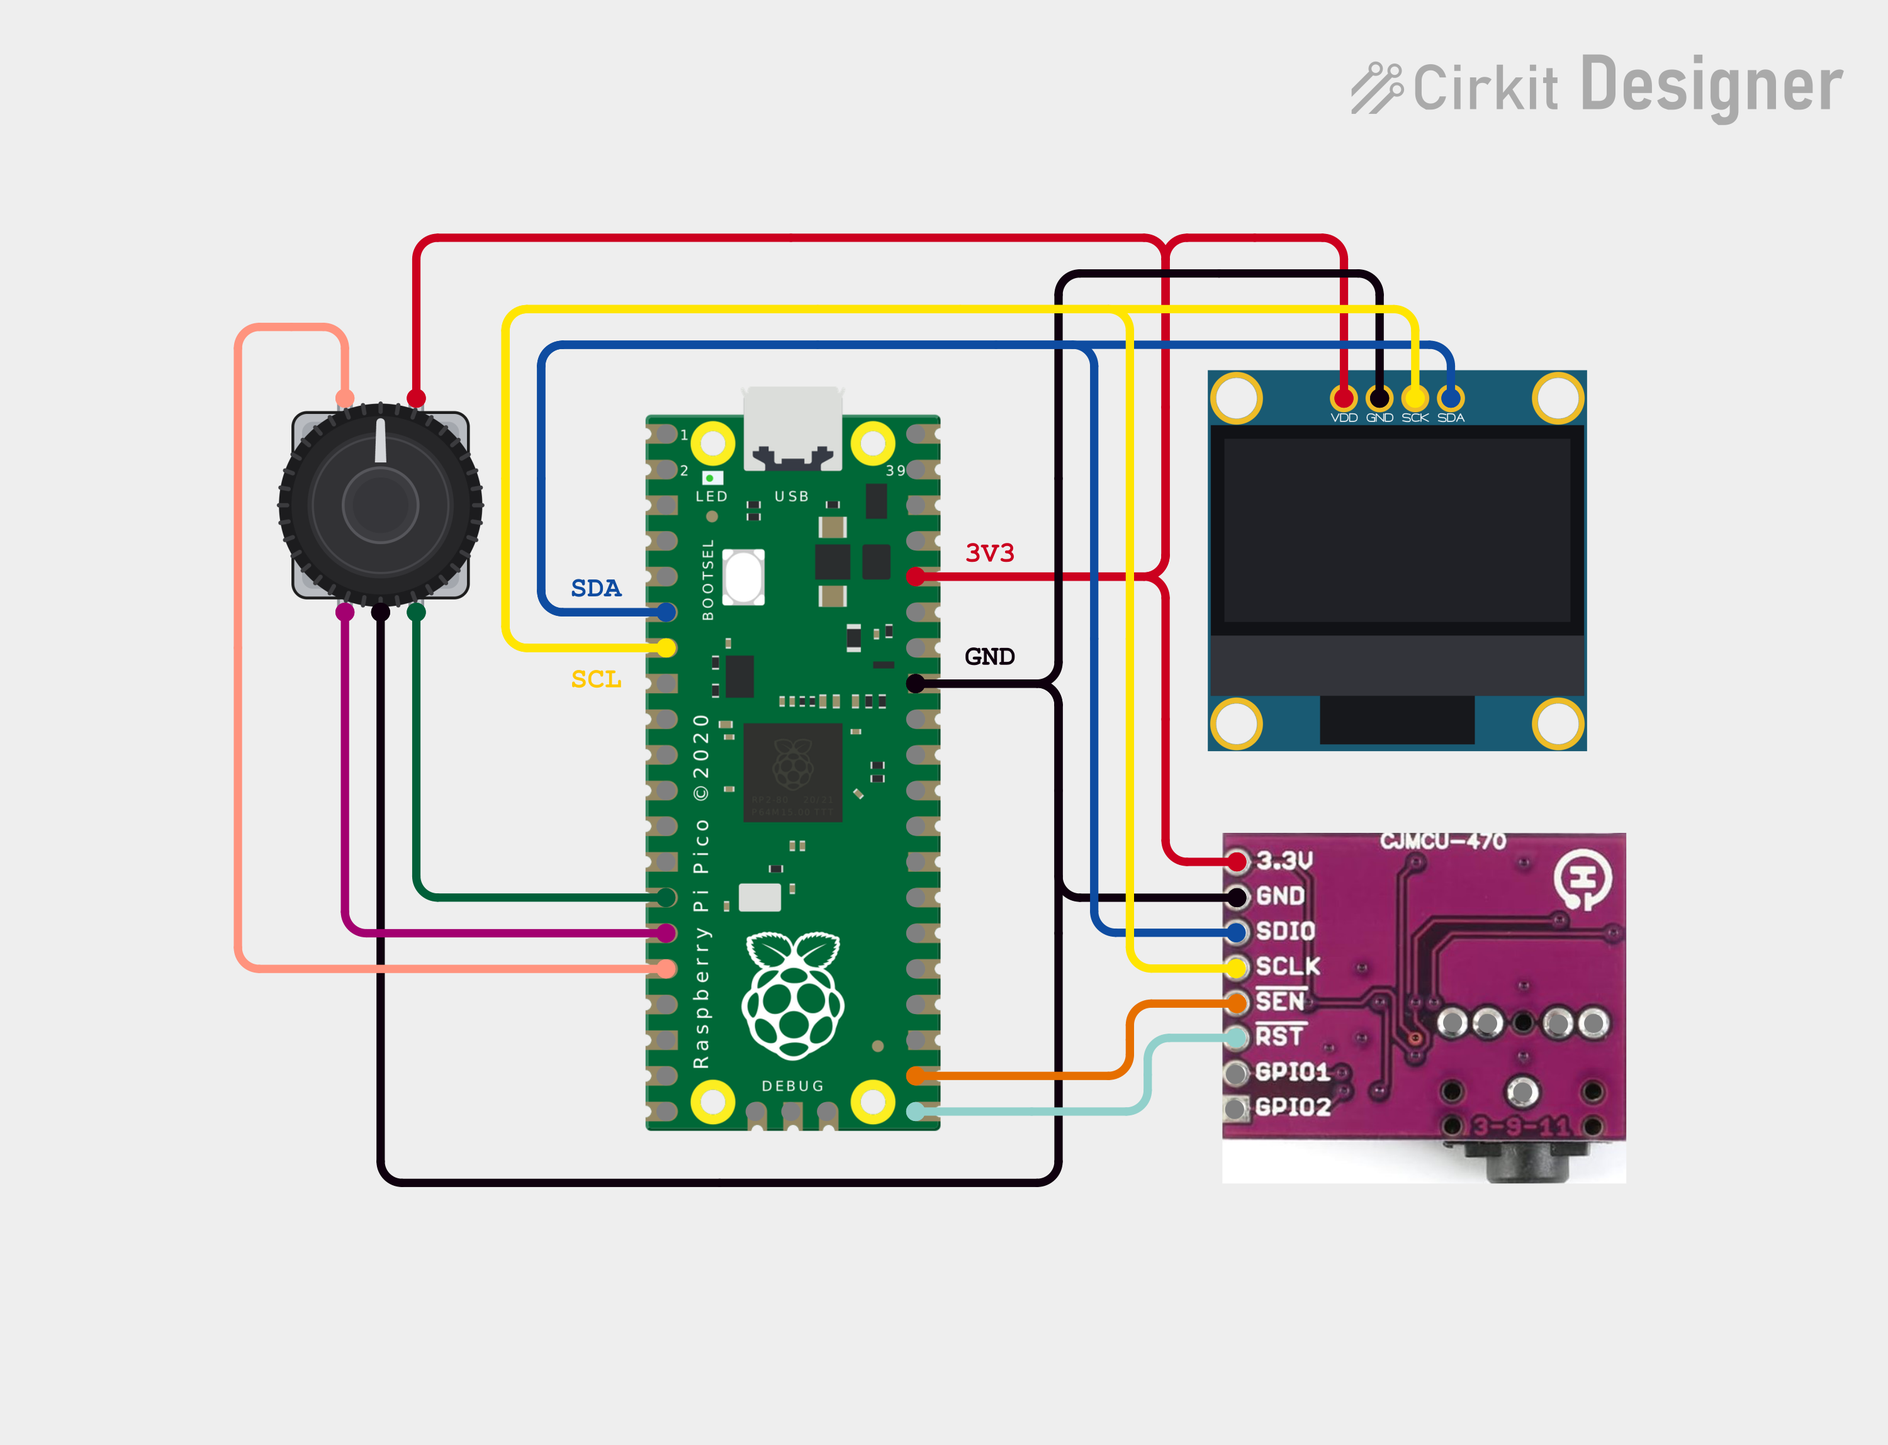
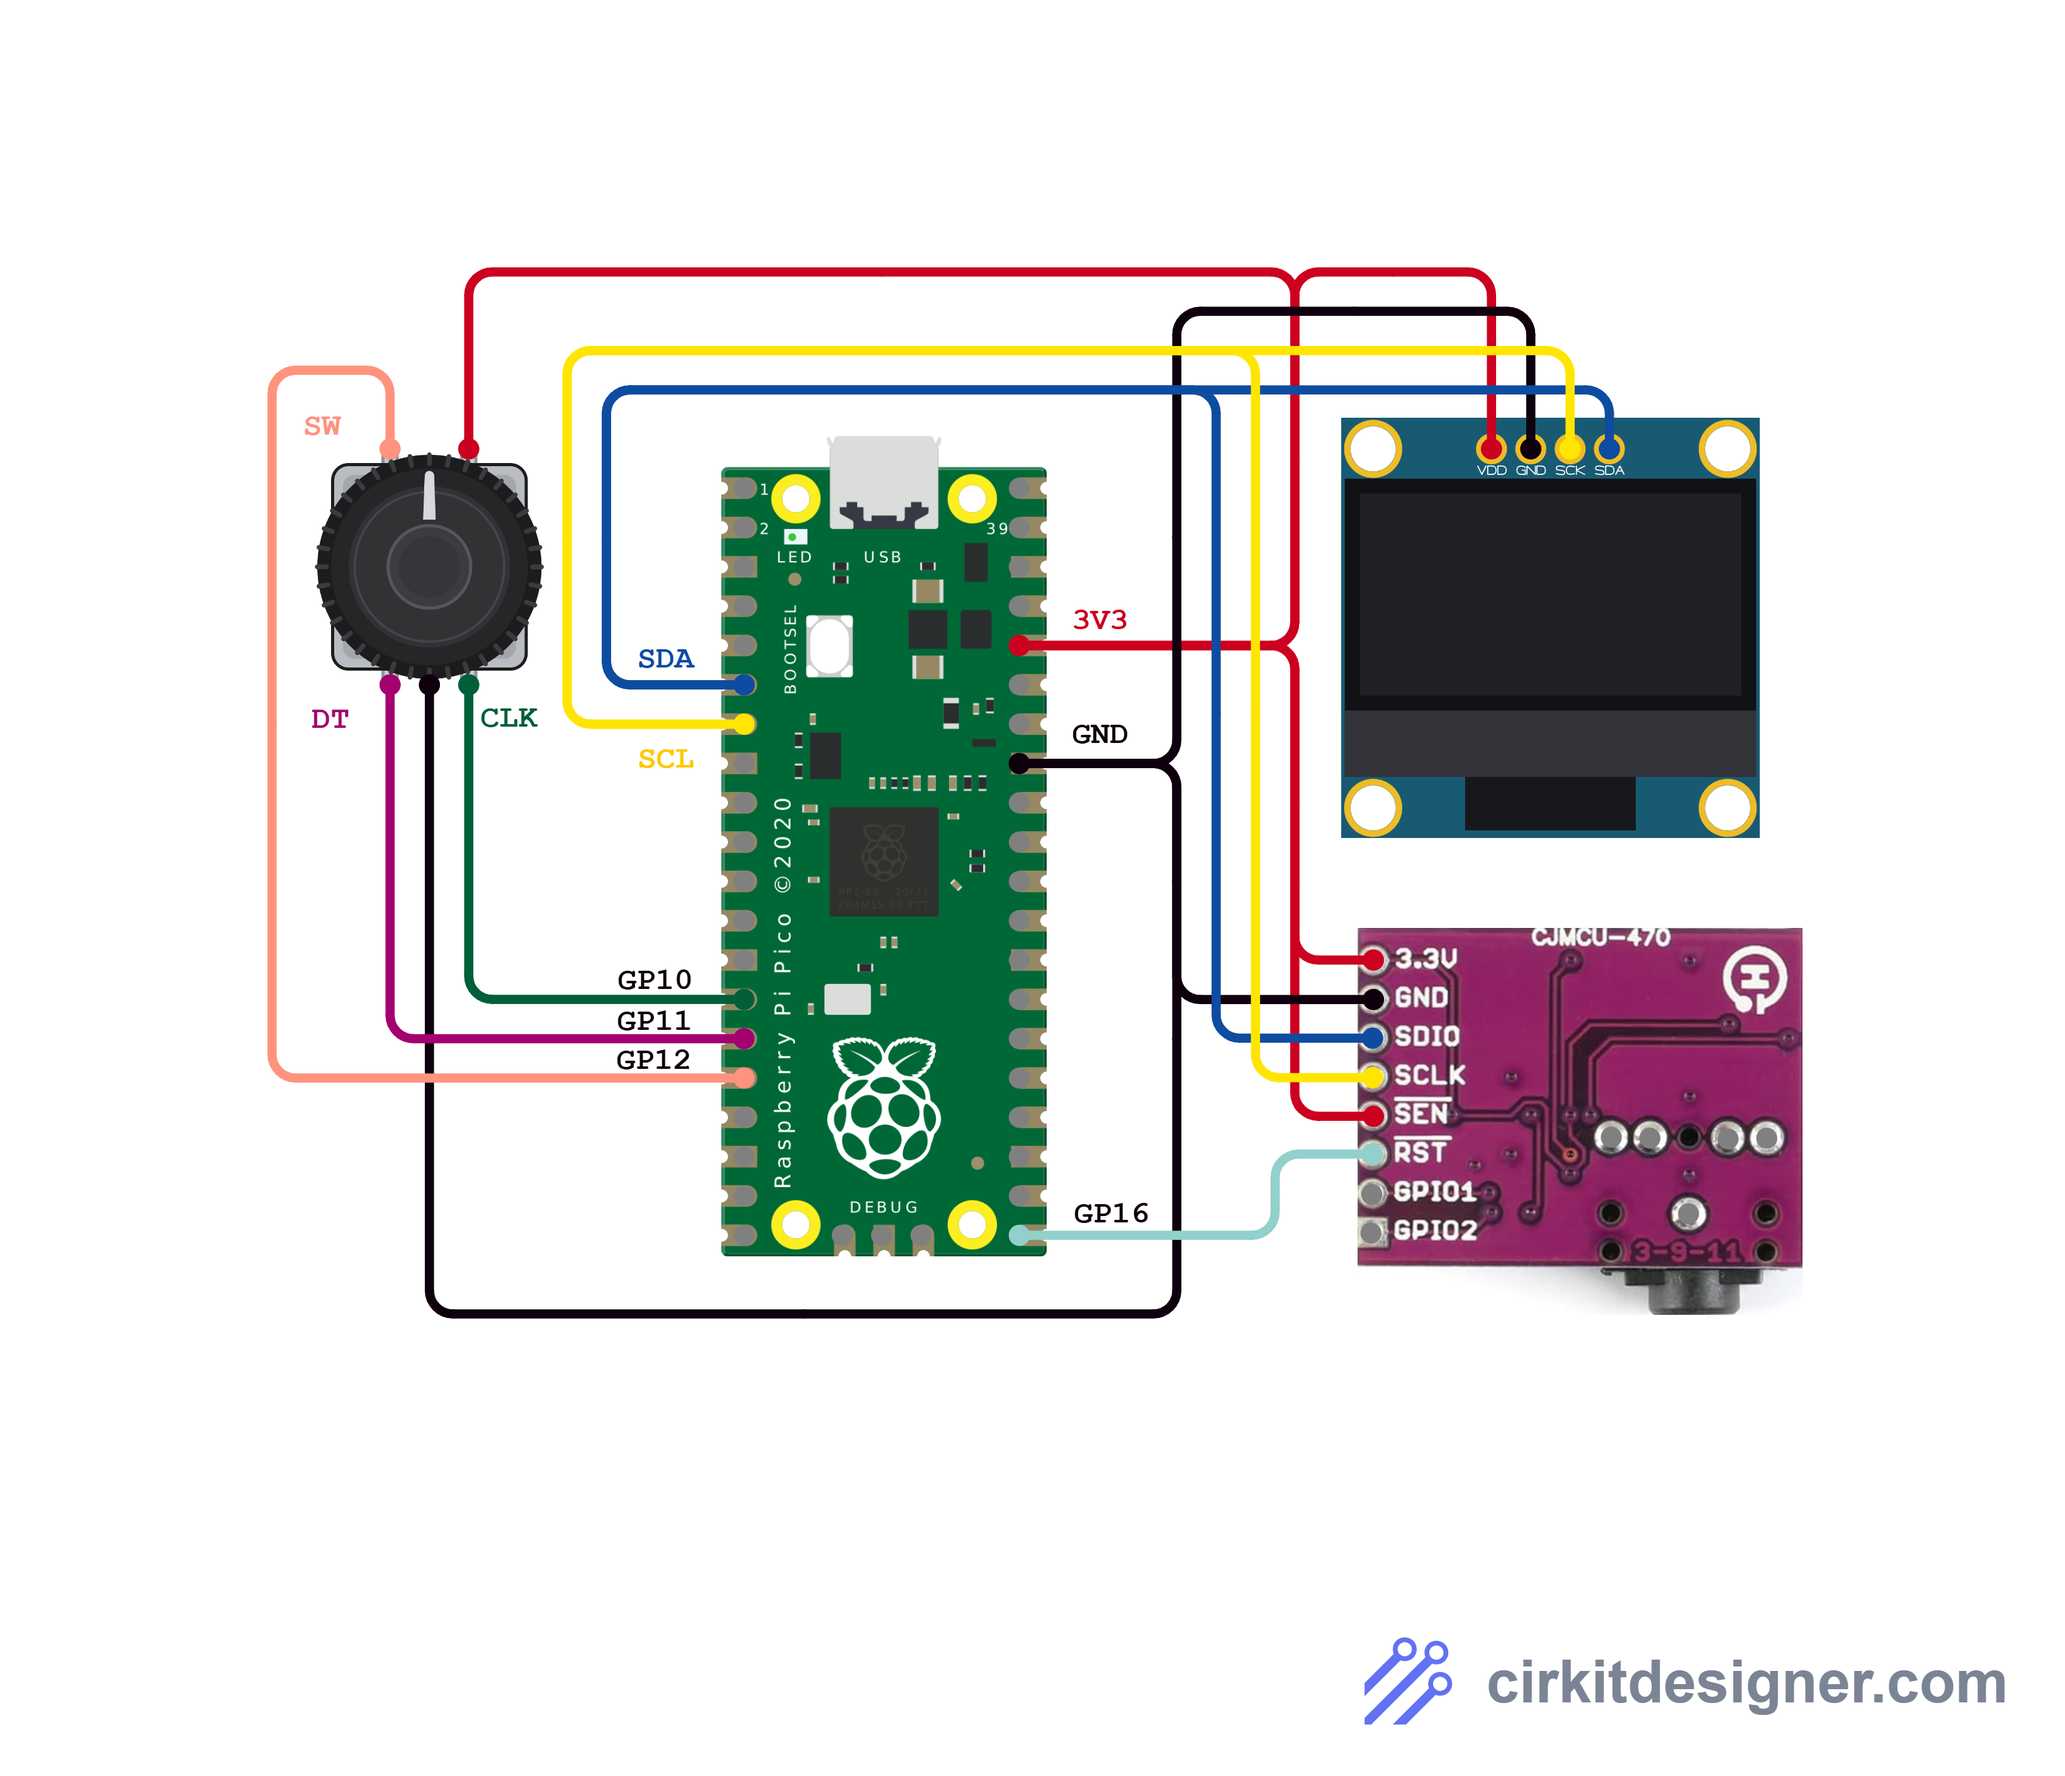
restructuring
deleted unreleated files updated pinout scheme and structured files into correct directories

Changed region(s): [[0.124, 0.1236, 0.899, 0.8346], [0.713, 0.0309, 0.992, 0.0927], [0.651, 0.9273, 0.992, 0.9891]]

diff --git a/component-verification/oled-display/oled.py b/component-verification/oled-display/oled.py
@@ -1,0 +1,29 @@
+from machine import I2C, Pin
+from sh1106 import SH1106_I2C
+import time
+
+
+def main():
+    i2c = I2C(0, sda=Pin(4), scl=Pin(5), freq=100_000)
+    oled = SH1106_I2C(i2c)
+
+    oled.fill(0)
+    oled.text("Frequency", 0, 0)
+    oled.text("... MHz", 0, 12)
+    oled.text("RDS will be here", 0, 34)
+    oled.show()
+
+    print("Press Ctrl+C to stop.")
+
+    try:
+        while True:
+            time.sleep(2)
+
+    except KeyboardInterrupt:
+        print("\nProgram stopped. Exiting...")
+        oled.fill(0)
+        oled.show()
+        oled.poweroff()
+
+if __name__ == "__main__":
+    main()
